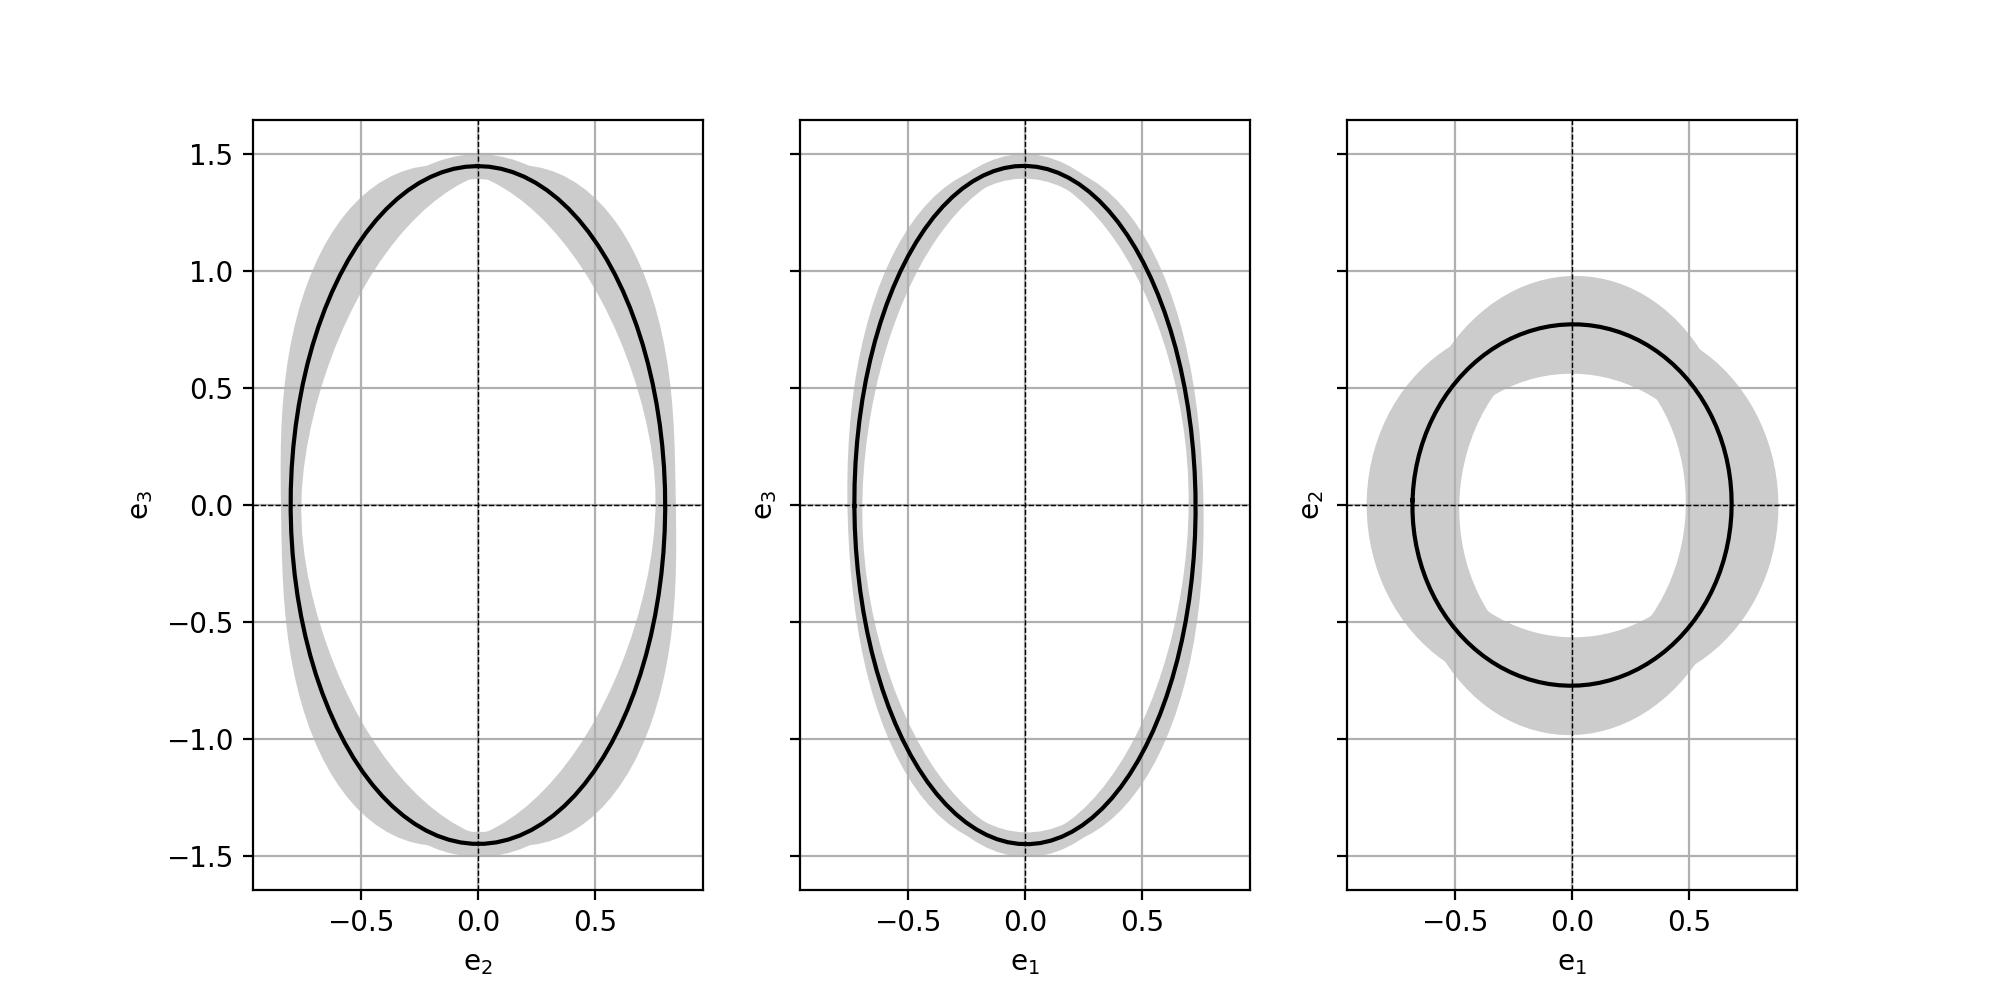
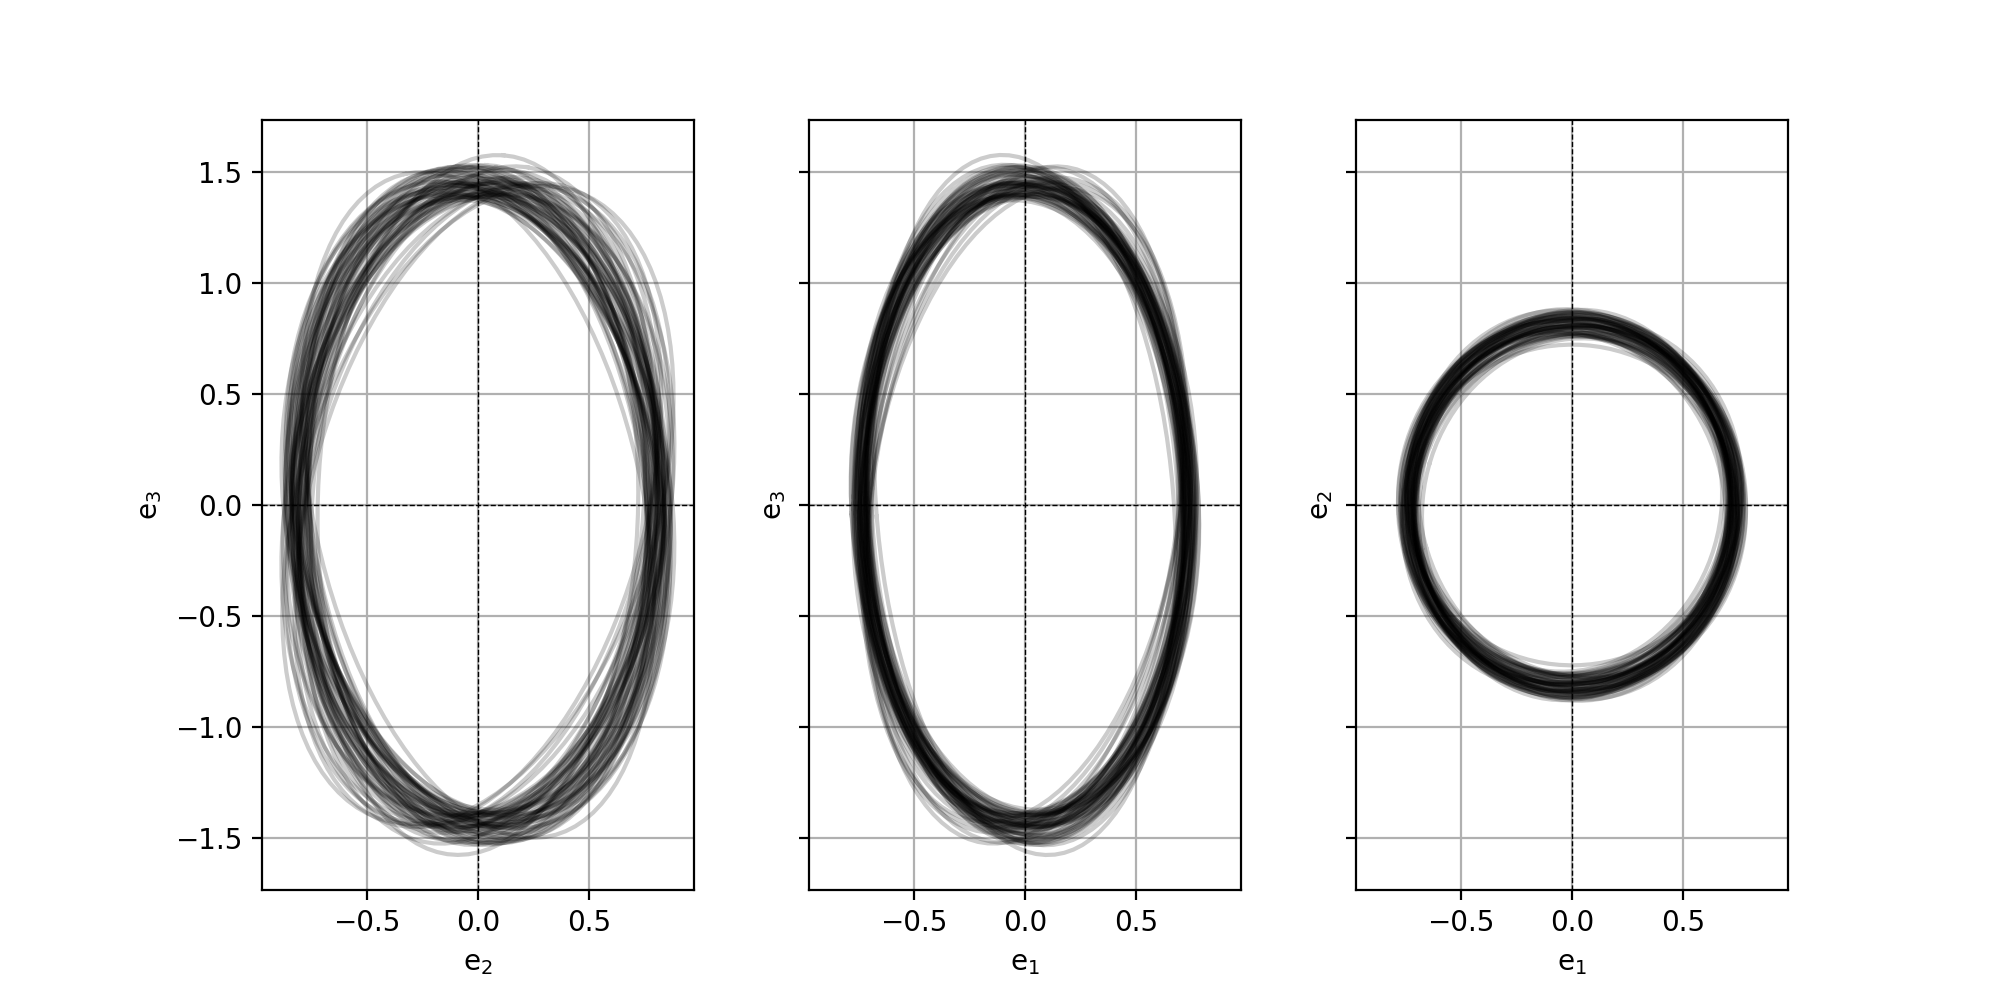
Update results

diff --git a/05_Homogenization/Analysis.py b/05_Homogenization/Analysis.py
@@ -20,11 +20,12 @@ import pandas as pd
 from pathlib import Path
 from scipy.stats import t
 import matplotlib.pyplot as plt
+from scipy.optimize import minimize
 from scipy.stats import ttest_rel, ttest_ind
 from scipy.stats.distributions import norm, t
 
 sys.path.append(str(Path(__file__).parents[1]))
-from Utils import Read
+from Utils import Read, Tensor
 
 #%% Functions
 
@@ -688,23 +689,51 @@ def Main():
     mIsotropic = np.mean(Isotropic, axis=1)
     mTransverse = np.mean(Transverse, axis=1)
 
-    BoxPlot([[F[0] for F in Fabric], [F[1] for F in Fabric], [F[2] for F in Fabric]])
+    BoxPlot([[F[0] for F in Fabric], [F[1] for F in Fabric], [F[2] for F in Fabric]],
+            ['', 'Fabric Eigenvalues'], SetsLabels=['$m_1$', '$m_2$', '$m_3$'],)
+
+    # Compute error to ideal transverse isotropy
+    iTransverse = np.zeros(mIsotropic.shape)
+    iTransverse[:,0,0] = (mIsotropic[:,0,0] + mIsotropic[:,1,1]) / 2
+    iTransverse[:,1,1] = iTransverse[:,0,0]
+    iTransverse[:,2,2] = mIsotropic[:,2,2]
+    iTransverse[:,3,3] = (mIsotropic[:,3,3] + mIsotropic[:,4,4]) / 2
+    iTransverse[:,4,4] = iTransverse[:,3,3]
+    iTransverse[:,5,5] = mIsotropic[:,5,5]
+    iTransverse[:,1,2] = (mIsotropic[:,0,2] + mIsotropic[:,0,2]) / 2
+    iTransverse[:,0,2] = iTransverse[:,1,2]
+    iTransverse[:,0,1] = mIsotropic[:,0,1]
+    iTransverse[:,2,0] = iTransverse[:,0,2]
+    iTransverse[:,2,1] = iTransverse[:,1,2]
+    iTransverse[:,1,0] = iTransverse[:,0,1]
+    NE = np.linalg.norm(mIsotropic - iTransverse, axis=(1,2))
+    NE_Iso = NE / np.linalg.norm(mIsotropic, axis=(1,2)) * 100
+
+    iTransverse = np.zeros(mTransverse.shape)
+    iTransverse[:,0,0] = (mTransverse[:,0,0] + mTransverse[:,1,1]) / 2
+    iTransverse[:,1,1] = iTransverse[:,0,0]
+    iTransverse[:,2,2] = mTransverse[:,2,2]
+    iTransverse[:,3,3] = (mTransverse[:,3,3] + mTransverse[:,4,4]) / 2
+    iTransverse[:,4,4] = iTransverse[:,3,3]
+    iTransverse[:,5,5] = mTransverse[:,5,5]
+    iTransverse[:,1,2] = (mTransverse[:,0,2] + mTransverse[:,0,2]) / 2
+    iTransverse[:,0,2] = iTransverse[:,1,2]
+    iTransverse[:,0,1] = mTransverse[:,0,1]
+    iTransverse[:,2,0] = iTransverse[:,0,2]
+    iTransverse[:,2,1] = iTransverse[:,1,2]
+    iTransverse[:,1,0] = iTransverse[:,0,1]
+    NE = np.linalg.norm(mTransverse - iTransverse, axis=(1,2))
+    NE_Tra = NE / np.linalg.norm(mTransverse, axis=(1,2)) * 100
 
 
-    # Isotropic model constants
-    E, Nu = 1E4, 0.3
-    Mu = E / (2 * (1 + Nu))
-    S = np.array([[1/E, -Nu/E, -Nu/E, 0, 0, 0],
-                  [-Nu/E, 1/E, -Nu/E, 0, 0, 0],
-                  [-Nu/E, -Nu/E, 1/E, 0, 0, 0],
-                  [0, 0, 0, 1/Mu, 0, 0],
-                  [0, 0, 0, 0, 1/Mu, 0],
-                  [0, 0, 0, 0, 0, 1/Mu]])
-    C = np.linalg.inv(S)
+    Figure, Axis = plt.subplots(1,1)
+    Axis.plot(BVTV, NE_Iso, linestyle='none', marker='o', color=(1,0,0), label='Isotropic')
+    Axis.plot(BVTV, NE_Tra, linestyle='none', marker='o', color=(0,0,1), label='Transverse')
+    Axis.set_xlabel('BV/TV (-)')
+    Axis.set_ylabel('Norm Error (%)')
+    plt.legend()
+    plt.show(Figure)
 
-    Mu0 = C[5,5]
-    Lambda0 = C[0,0] - 2*Mu0
-    Lambda0p = C[1,0]
 
     # Fit homogenization with theorical model
     X = np.matrix(np.zeros((len(cFolders)*12, 5)))

diff --git a/01_Fabric/PlotData.py b/01_Fabric/PlotData.py
@@ -92,6 +92,15 @@ def Main():
             R = np.column_stack([eVecs[0],eVecs[1]])
             e1e2e3 = R @ np.vstack([e1,e2])
 
+            # Plot lines
+            if i == 0:
+                Axis[i].plot(e1e2e3[1], e1e2e3[2], color=(0,0,0,0.2))
+            elif i == 1:
+                Axis[i].plot(e1e2e3[0], e1e2e3[2], color=(0,0,0,0.2))
+            else:
+                Axis[i].plot(e1e2e3[0], e1e2e3[1], color=(0,0,0,0.2))
+
+
             # Store values
             e1s.append(e1e2e3[0])
             e2s.append(e1e2e3[1])
@@ -107,23 +116,23 @@ def Main():
 
         # Plot the ellipse
         if i == 0:
-            Axis[i].plot(Mean2, Mean3, color=(0,0,0))
-            Axis[i].fill_between(Mean2, Mean3-Std3, Mean3+Std3, color=(0.8,0.8,0.8))
-            Axis[i].fill_betweenx(Mean3, Mean2-Std2, Mean2+Std2, color=(0.8,0.8,0.8))
+            # Axis[i].plot(Mean2, Mean3, color=(0,0,0))
+            # Axis[i].fill_between(Mean2, Mean3-Std3, Mean3+Std3, color=(0.8,0.8,0.8))
+            # Axis[i].fill_betweenx(Mean3, Mean2-Std2, Mean2+Std2, color=(0.8,0.8,0.8))
             Axis[i].set_xlabel('e$_2$')
             Axis[i].set_ylabel('e$_3$')
 
         elif i == 1:
-            Axis[i].plot(Mean1, Mean3, color=(0,0,0))
-            Axis[i].fill_between(Mean1, Mean3-Std3, Mean3+Std3, color=(0.8,0.8,0.8))
-            Axis[i].fill_betweenx(Mean3, Mean1-Std1, Mean1+Std1, color=(0.8,0.8,0.8))
+            # Axis[i].plot(Mean1, Mean3, color=(0,0,0))
+            # Axis[i].fill_between(Mean1, Mean3-Std3, Mean3+Std3, color=(0.8,0.8,0.8))
+            # Axis[i].fill_betweenx(Mean3, Mean1-Std1, Mean1+Std1, color=(0.8,0.8,0.8))
             Axis[i].set_xlabel('e$_1$')
             Axis[i].set_ylabel('e$_3$')
 
         else:
-            Axis[i].plot(Mean1, Mean2, color=(0,0,0))
-            Axis[i].fill_between(Mean1, Mean2-Std2, Mean2+Std2, color=(0.8,0.8,0.8))
-            Axis[i].fill_betweenx(Mean2, Mean1-Std1, Mean1+Std1, color=(0.8,0.8,0.8))
+            # Axis[i].plot(Mean1, Mean2, color=(0,0,0))
+            # Axis[i].fill_between(Mean1, Mean2-Std2, Mean2+Std2, color=(0.8,0.8,0.8))
+            # Axis[i].fill_betweenx(Mean2, Mean1-Std1, Mean1+Std1, color=(0.8,0.8,0.8))
             Axis[i].set_xlabel('e$_1$')
             Axis[i].set_ylabel('e$_2$')
 

diff --git a/Utils/Tensor.py b/Utils/Tensor.py
@@ -506,7 +506,7 @@ class Tensor():
 
         return Tensor
 
-    def Othotropic(self, E1, E2, E3, Mu23, Mu31, Mu12, Nu23, Nu31, Nu12, Basis=np.eye(3)):
+    def Orthotropic(self, E1, E2, E3, Mu23, Mu31, Mu12, Nu23, Nu31, Nu12, Basis=np.eye(3)):
         
         """Build the full 3x3x3x3 transverse isotropic elasticity tensor."""
 
